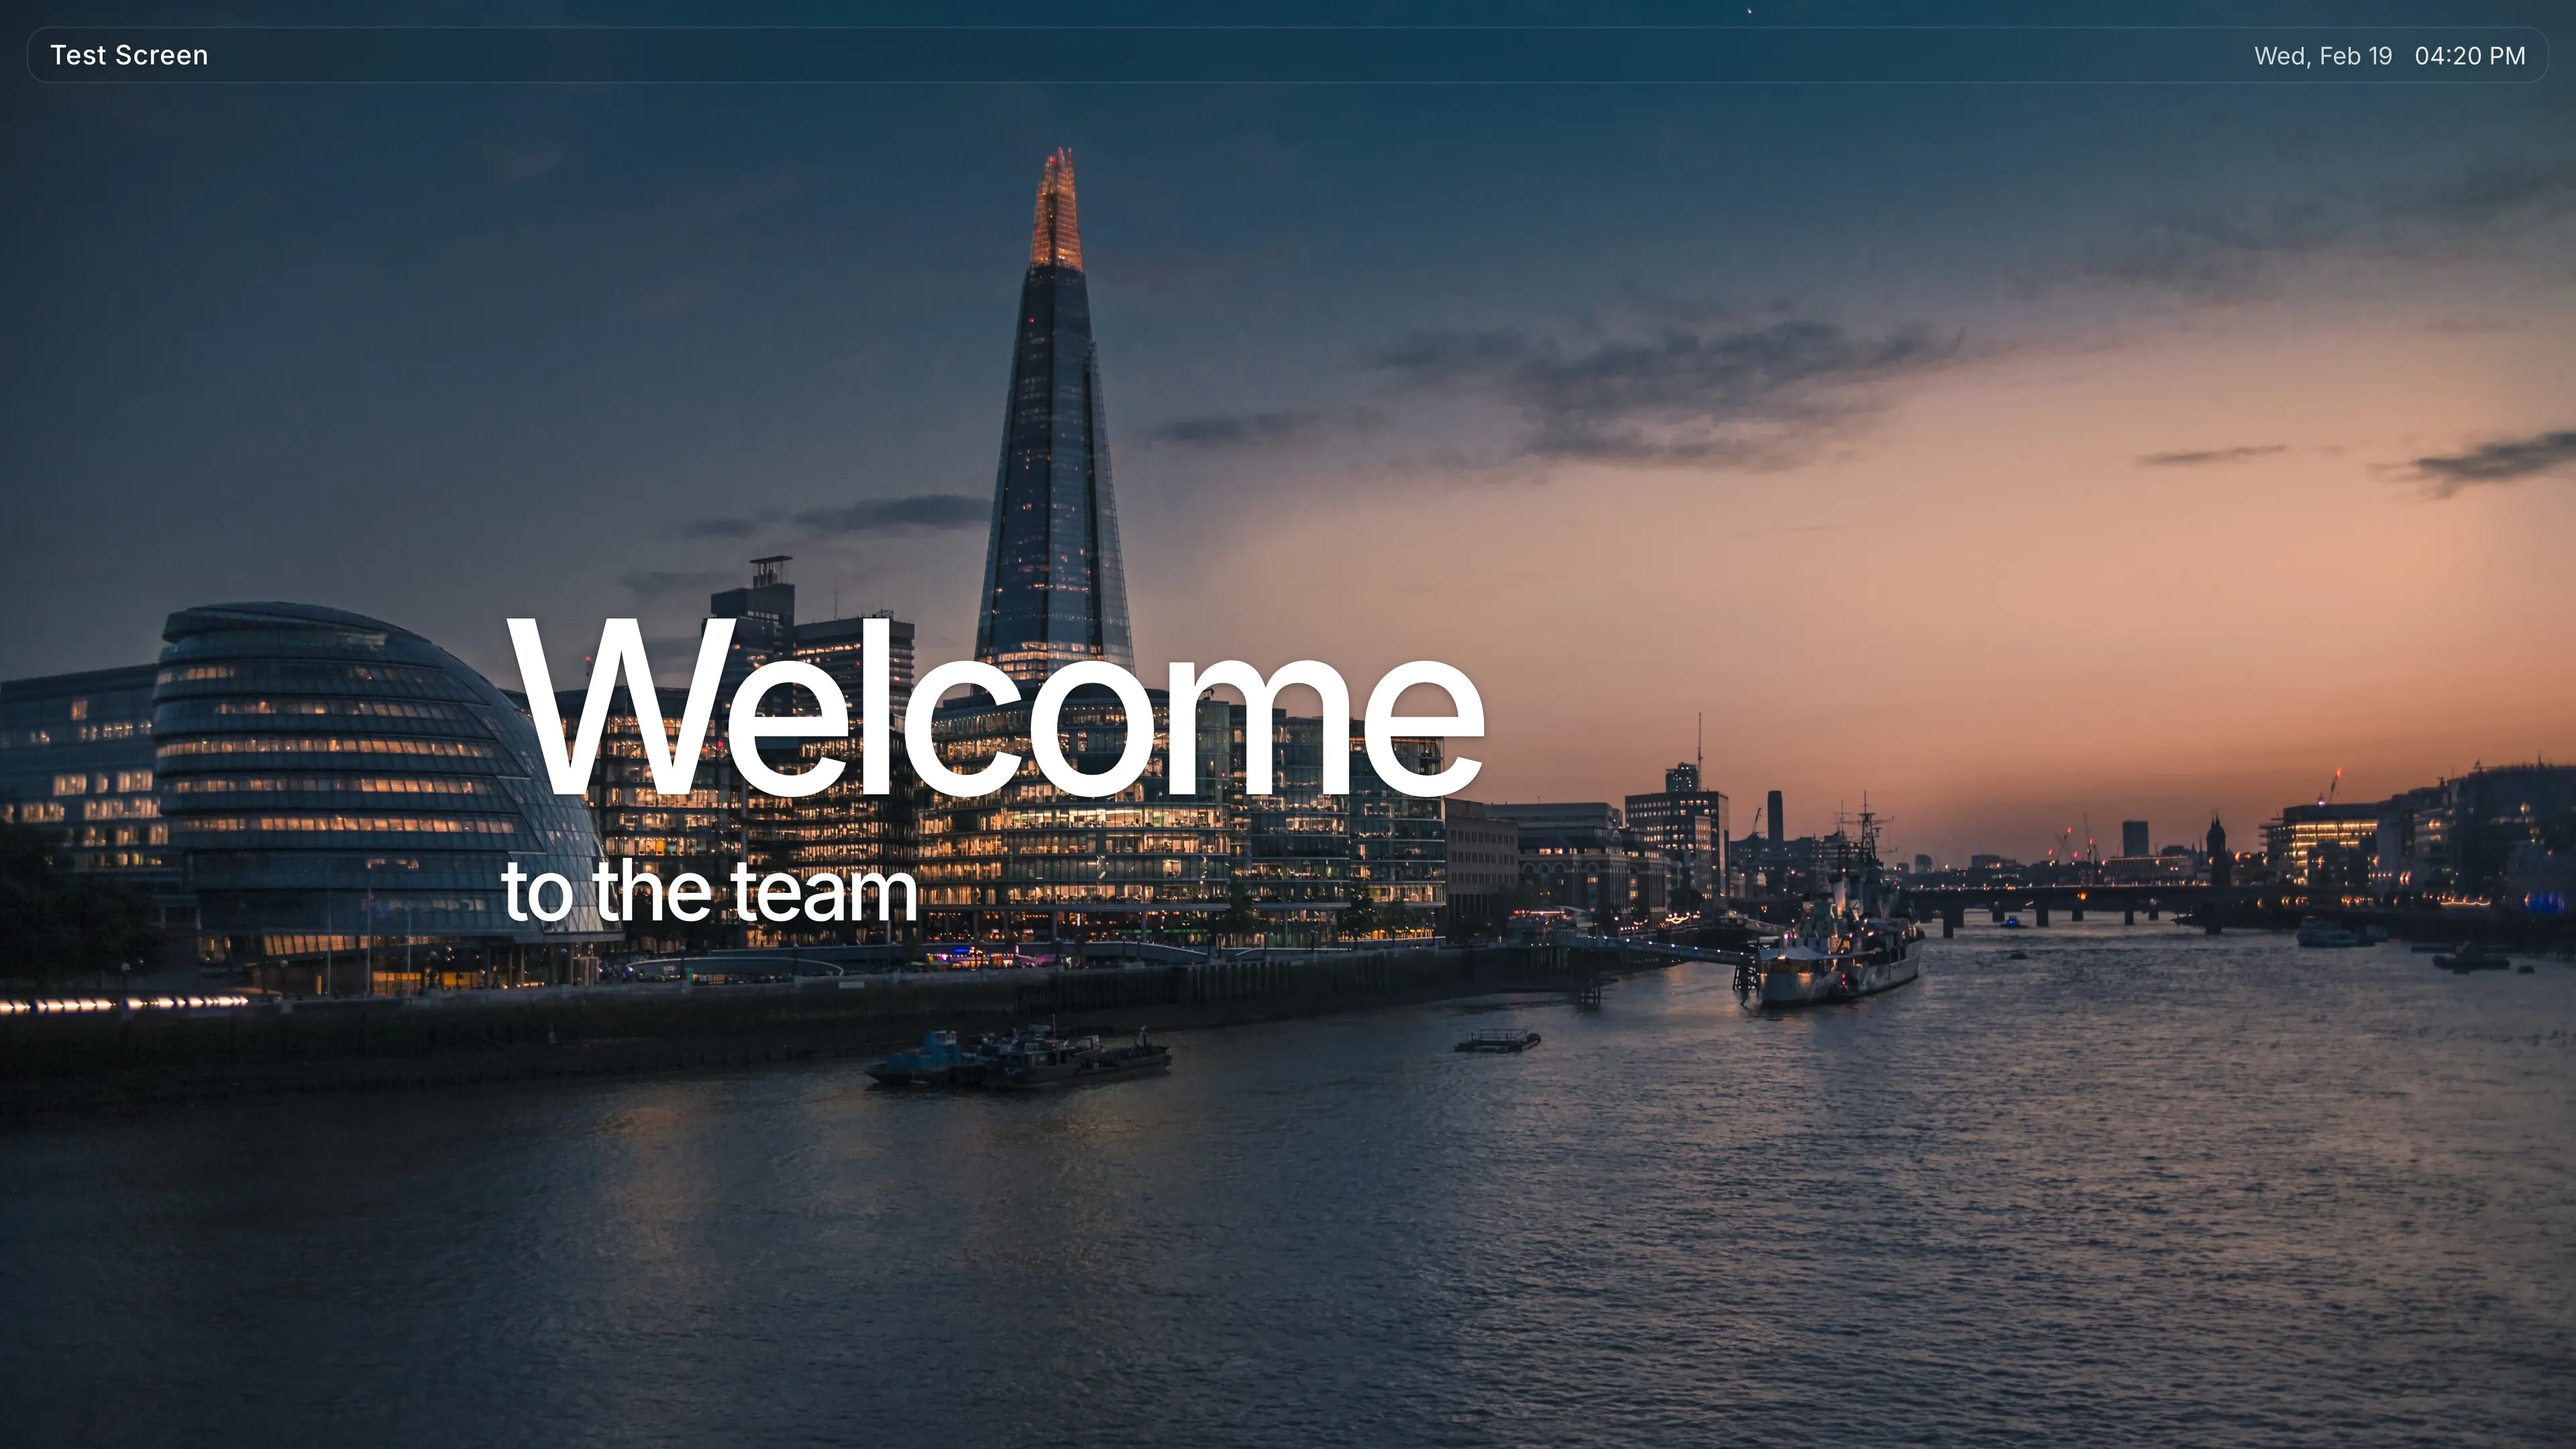
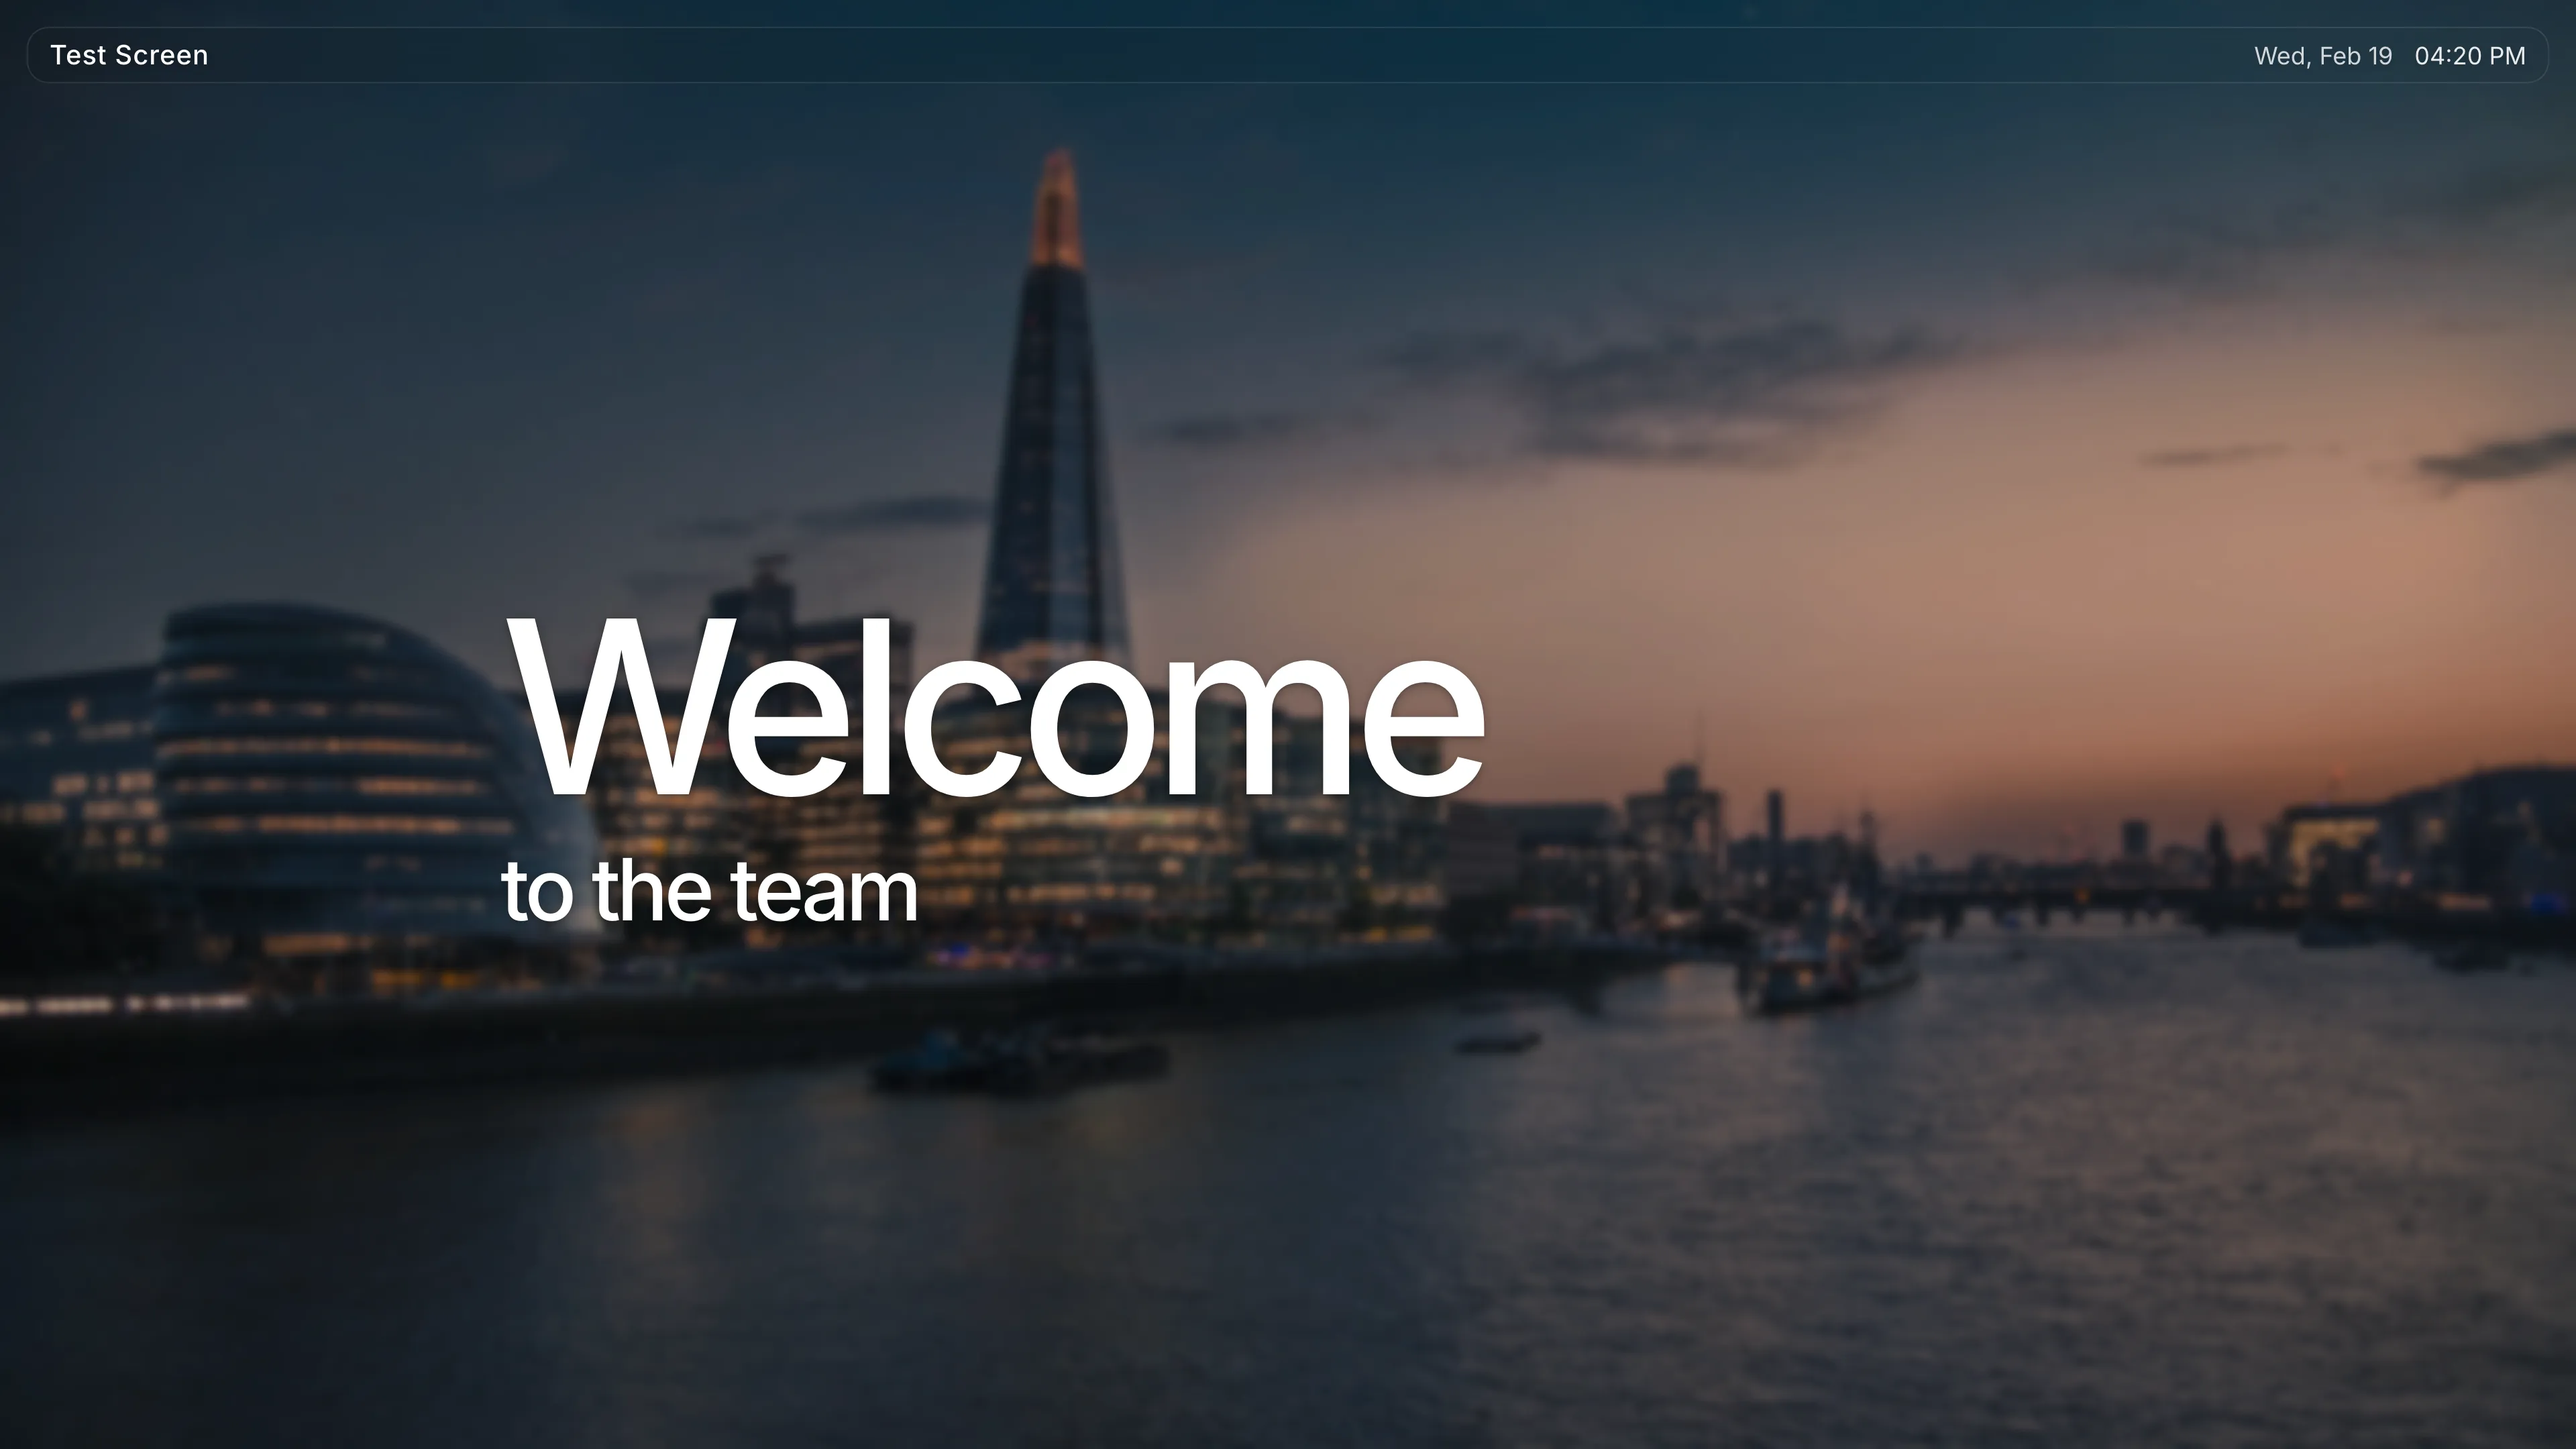
fix(welcome-app): add background blur overlay
- Add body::before with backdrop-filter blur and dark overlay
- Remove redundant CSS declarations
- Update screenshots

diff --git a/edge-apps/welcome-app-new/src/css/style.css b/edge-apps/welcome-app-new/src/css/style.css
@@ -14,10 +14,19 @@ body {
   background-size: cover;
 }
 
+body::before {
+  content: '';
+  position: fixed;
+  inset: 0;
+  z-index: var(--z-index-backdrop);
+  pointer-events: none;
+  background: rgba(0, 0, 0, 0.2);
+  backdrop-filter: blur(7px);
+}
+
 auto-scaler {
   position: fixed;
-  top: 0;
-  left: 0;
+  z-index: var(--z-index-content);
 }
 
 #app {
@@ -31,7 +40,6 @@ auto-scaler {
 
 .header {
   flex-shrink: 0;
-  width: 100%;
 }
 
 .content {
